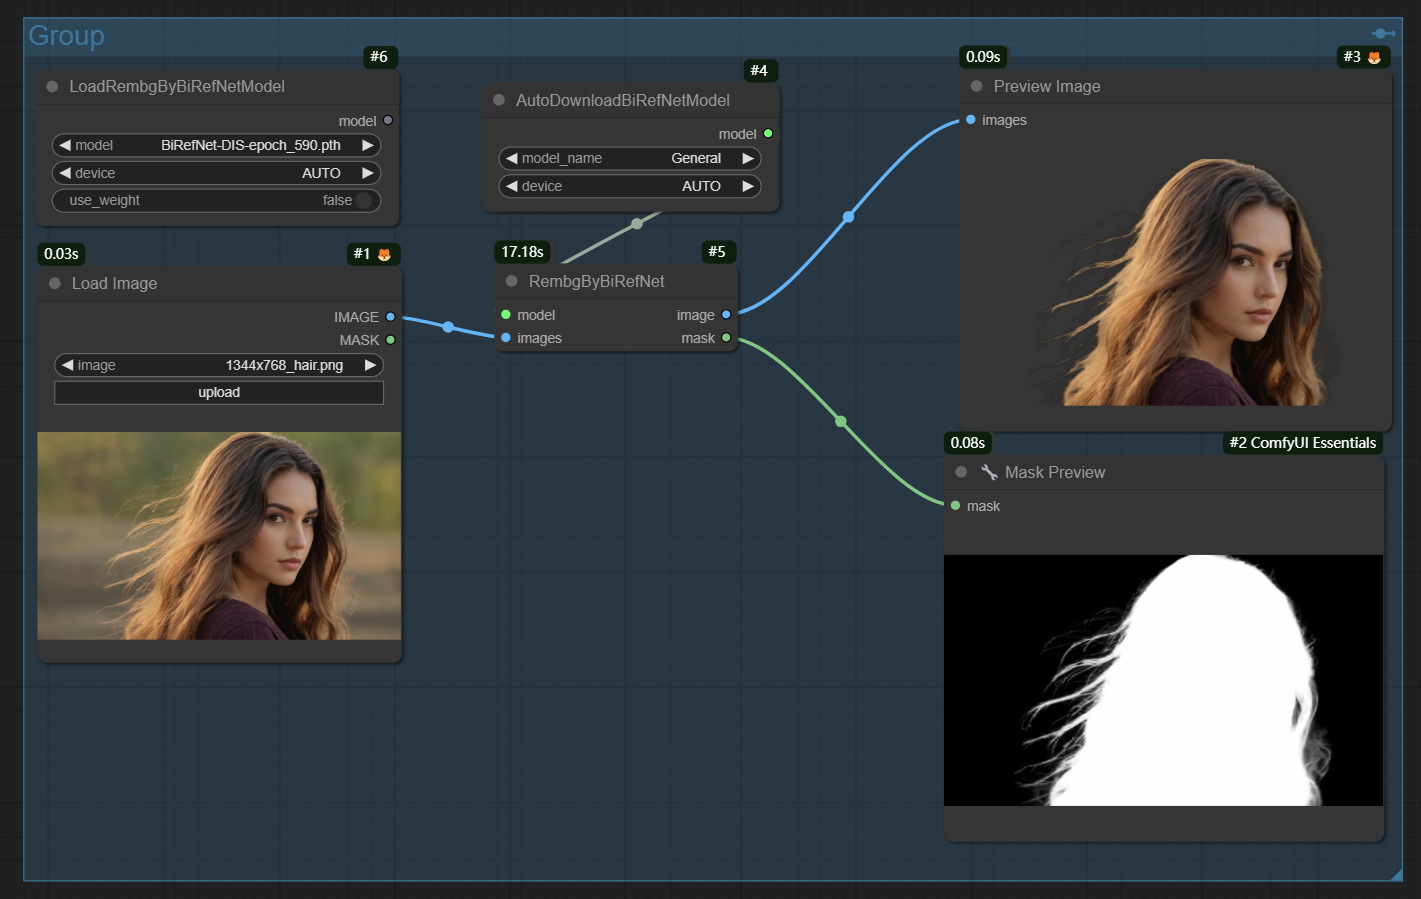
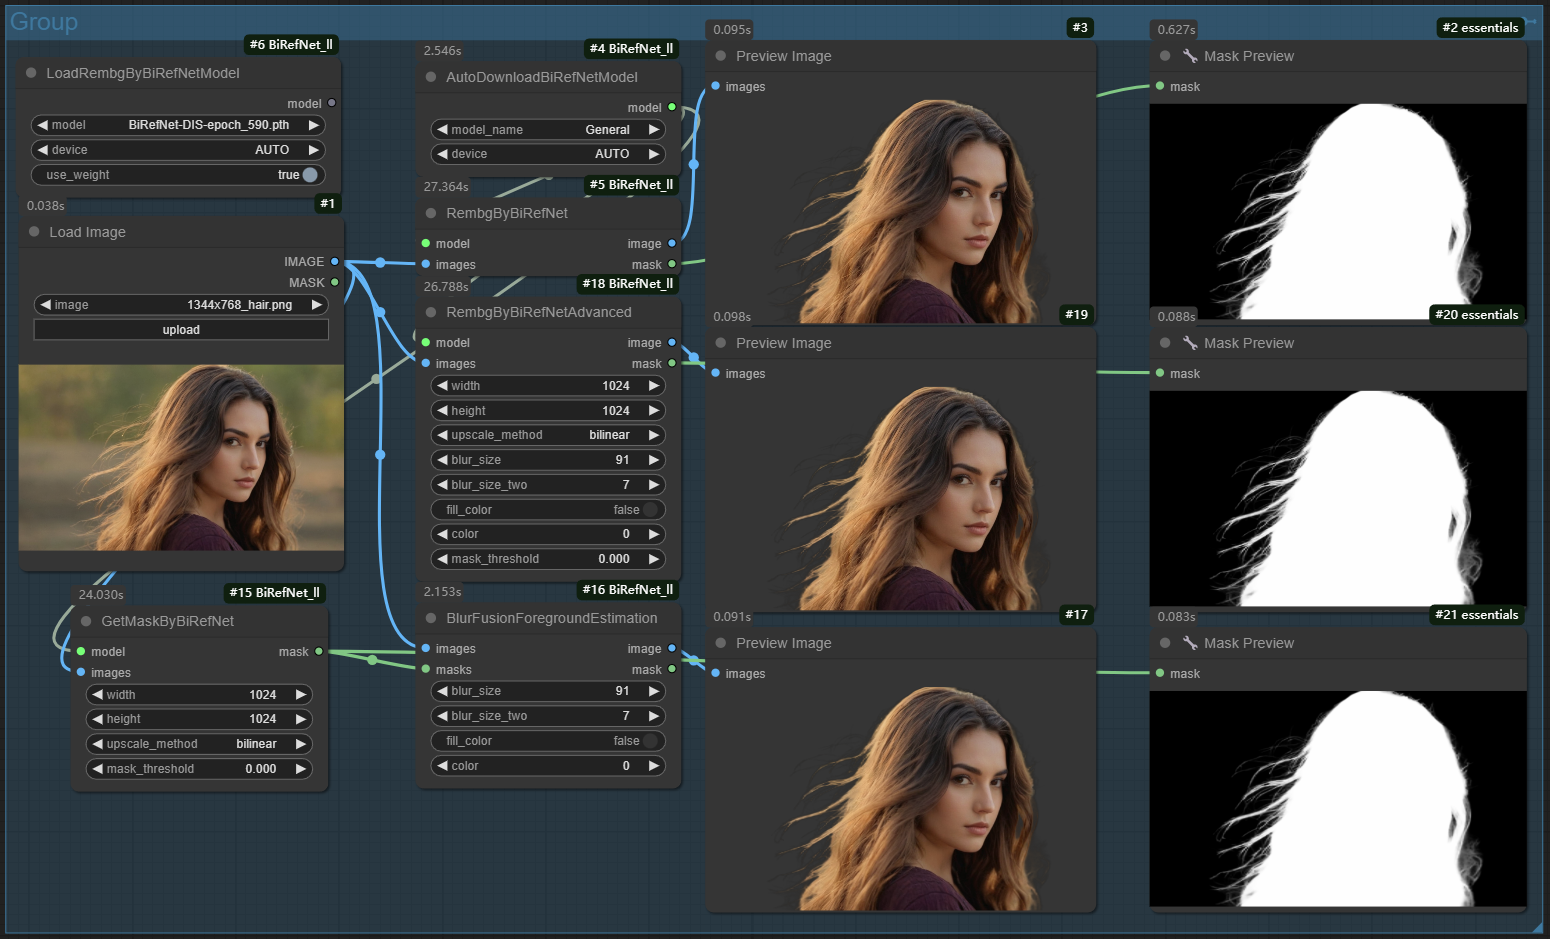
add GetMaskByBiRefNet and BlurFusionForegroundEstimation

diff --git a/birefnetNode.py b/birefnetNode.py
@@ -164,7 +164,135 @@ class LoadRembgByBiRefNetModel:
         return [(biRefNet_model, version)]
 
 
-class RembgByBiRefNetAdvanced:
+class GetMaskByBiRefNet:
+
+    @classmethod
+    def INPUT_TYPES(cls):
+        return {
+            "required": {
+                "model": ("BiRefNetMODEL",),
+                "images": ("IMAGE",),
+                "width": ("INT",
+                          {
+                              "default": 1024,
+                              "min": 0,
+                              "max": 16384,
+                              "tooltip": "The width of the preprocessed image, does not affect the final output image size"
+                          }),
+                "height": ("INT",
+                           {
+                               "default": 1024,
+                               "min": 0,
+                               "max": 16384,
+                               "tooltip": "The height of the preprocessed image, does not affect the final output image size"
+                           }),
+                "upscale_method": (["bislerp", "nearest-exact", "bilinear", "area", "bicubic"],
+                                   {
+                                       "default": "bilinear",
+                                       "tooltip": "Interpolation method for post-processing mask"
+                                   }),
+                "mask_threshold": ("FLOAT", {"default": 0.000, "min": 0.0, "max": 1.0, "step": 0.004, }),
+            }
+        }
+
+    RETURN_TYPES = ("MASK",)
+    RETURN_NAMES = ("mask",)
+    FUNCTION = "get_mask"
+    CATEGORY = "rembg/BiRefNet"
+
+    def get_mask(self, model, images, width=1024, height=1024, upscale_method='bilinear', mask_threshold=0.000):
+        model, version = model
+        model_device_type = next(model.parameters()).device.type
+        b, h, w, c = images.shape
+        image_bchw = images.permute(0, 3, 1, 2)
+
+        image_preproc = ImagePreprocessor(resolution=(height, width))
+        if VERSION[0] == version:
+            im_tensor = image_preproc.old_proc(image_bchw)
+        else:
+            im_tensor = image_preproc.proc(image_bchw)
+
+        _mask_bchw = []
+        for each_image in im_tensor:
+            with torch.no_grad():
+                each_mask = model(each_image.unsqueeze(0).to(model_device_type))[-1].sigmoid().cpu()
+            _mask_bchw.append(each_mask)
+            del each_mask
+
+        mask_bchw = torch.cat(_mask_bchw, dim=0)
+        del _mask_bchw
+        # 遮罩大小需还原为与原图一致
+        mask = comfy.utils.common_upscale(mask_bchw, w, h, upscale_method, "disabled")
+        # (b, 1, h, w)
+        if mask_threshold > 0:
+            mask = filter_mask(mask, threshold=mask_threshold)
+        # else:
+        #   似乎几乎无影响
+        #     mask = normalize_mask(mask)
+
+        return mask.squeeze(1),
+
+
+class BlurFusionForegroundEstimation:
+
+    @classmethod
+    def INPUT_TYPES(cls):
+        return {
+            "required": {
+                "images": ("IMAGE",),
+                "masks": ("MASK",),
+                "blur_size": ("INT", {"default": 91, "min": 1, "max": 255, "step": 2, }),
+                "blur_size_two": ("INT", {"default": 7, "min": 1, "max": 255, "step": 2, }),
+                "fill_color": ("BOOLEAN", {"default": False}),
+                "color": ("INT", {"default": 0, "min": 0, "max": 0xFFFFFF, "step": 1, "display": "color"}),
+            }
+        }
+
+    RETURN_TYPES = ("IMAGE", "MASK",)
+    RETURN_NAMES = ("image", "mask",)
+    FUNCTION = "get_foreground"
+    CATEGORY = "rembg/BiRefNet"
+    DESCRIPTION = "Approximate Fast Foreground Colour Estimation. https://github.com/Photoroom/fast-foreground-estimation"
+
+    def get_foreground(self, images, masks, blur_size=91, blur_size_two=7, fill_color=False, color=None):
+        b, h, w, c = images.shape
+        if b != masks.shape[0]:
+            raise ValueError("images and masks must have the same batch size")
+
+        image_bchw = images.permute(0, 3, 1, 2)
+
+        if masks.dim() == 3:
+            # (b, h, w) => (b, 1, h, w)
+            out_masks = masks.unsqueeze(1)
+
+        # (b, c, h, w)
+        _image_masked = refine_foreground(image_bchw, out_masks, r1=blur_size, r2=blur_size_two)
+        # (b, c, h, w) => (b, h, w, c)
+        _image_masked = _image_masked.permute(0, 2, 3, 1)
+        if fill_color and color is not None:
+            r = torch.full([b, h, w, 1], ((color >> 16) & 0xFF) / 0xFF)
+            g = torch.full([b, h, w, 1], ((color >> 8) & 0xFF) / 0xFF)
+            b = torch.full([b, h, w, 1], (color & 0xFF) / 0xFF)
+            # (b, h, w, 3)
+            background_color = torch.cat((r, g, b), dim=-1)
+            # (b, 1, h, w) => (b, h, w, 3)
+            apply_mask = out_masks.permute(0, 2, 3, 1).expand_as(_image_masked)
+            out_images = _image_masked * apply_mask + background_color * (1 - apply_mask)
+            # (b, h, w, 3)=>(b, h, w, 3)
+            del background_color, apply_mask
+            out_masks = out_masks.squeeze(1)
+        else:
+            # (b, 1, h, w) => (b, h, w)
+            out_masks = out_masks.squeeze(1)
+            # image的非mask对应部分设为透明 => (b, h, w, 4)
+            out_images = add_mask_as_alpha(_image_masked.cpu(), out_masks.cpu())
+
+        del _image_masked
+
+        return out_images, out_masks
+
+
+class RembgByBiRefNetAdvanced(GetMaskByBiRefNet, BlurFusionForegroundEstimation):
 
     @classmethod
     def INPUT_TYPES(cls):
@@ -205,57 +333,10 @@ class RembgByBiRefNetAdvanced:
     CATEGORY = "rembg/BiRefNet"
 
     def rem_bg(self, model, images, upscale_method='bilinear', width=1024, height=1024, blur_size=91, blur_size_two=7, fill_color=False, color=None, mask_threshold=0.000):
-        model, version = model
-        model_device_type = next(model.parameters()).device.type
-        b, h, w, c = images.shape
-        image_bchw = images.permute(0, 3, 1, 2)
 
-        image_preproc = ImagePreprocessor(resolution=(1024, 1024))
-        if VERSION[0] == version:
-            im_tensor = image_preproc.old_proc(image_bchw)
-        else:
-            im_tensor = image_preproc.proc(image_bchw)
+        masks = super().get_mask(model, images, width, height, upscale_method, mask_threshold)
 
-        _mask_bchw = []
-        for each_image in im_tensor:
-            with torch.no_grad():
-                each_mask = model(each_image.unsqueeze(0).to(model_device_type))[-1].sigmoid().cpu()
-            _mask_bchw.append(each_mask)
-            del each_mask
-
-        mask_bchw = torch.cat(_mask_bchw, dim=0)
-        del _mask_bchw
-        # 遮罩大小需还原为与原图一致
-        mask = comfy.utils.common_upscale(mask_bchw, w, h, 'bilinear', "disabled")
-        # (b, 1, h, w)
-        if mask_threshold > 0:
-            out_masks = filter_mask(mask, threshold=mask_threshold)
-        else:
-            out_masks = normalize_mask(mask)
-
-        # (b, c, h, w)
-        _image_masked = refine_foreground(image_bchw, out_masks, r1=blur_size, r2=blur_size_two)
-        # (b, c, h, w) => (b, h, w, c)
-        _image_masked = _image_masked.permute(0, 2, 3, 1)
-        if fill_color and color is not None:
-            r = torch.full([b, h, w, 1], ((color >> 16) & 0xFF) / 0xFF)
-            g = torch.full([b, h, w, 1], ((color >> 8) & 0xFF) / 0xFF)
-            b = torch.full([b, h, w, 1], (color & 0xFF) / 0xFF)
-            # (b, h, w, 3)
-            background_color = torch.cat((r, g, b), dim=-1)
-            # (b, 1, h, w) => (b, h, w, 3)
-            apply_mask = out_masks.permute(0, 2, 3, 1).expand_as(_image_masked)
-            out_images = _image_masked * apply_mask + background_color * (1 - apply_mask)
-            # (b, h, w, 3)=>(b, h, w, 3)
-            del background_color, apply_mask
-            out_masks = out_masks.squeeze(1)
-        else:
-            # (b, 1, h, w) => (b, h, w)
-            out_masks = out_masks.squeeze(1)
-            # image的非mask对应部分设为透明 => (b, h, w, 4)
-            out_images = add_mask_as_alpha(_image_masked.cpu(), out_masks.cpu())
-
-        del _image_masked
+        out_images, out_masks = super().get_foreground(images, masks=masks[0], blur_size=blur_size, blur_size_two=blur_size_two, fill_color=fill_color, color=color)
 
         return out_images, out_masks
 
@@ -285,6 +366,8 @@ NODE_CLASS_MAPPINGS = {
     "LoadRembgByBiRefNetModel": LoadRembgByBiRefNetModel,
     "RembgByBiRefNet": RembgByBiRefNet,
     "RembgByBiRefNetAdvanced": RembgByBiRefNetAdvanced,
+    "GetMaskByBiRefNet": GetMaskByBiRefNet,
+    "BlurFusionForegroundEstimation": BlurFusionForegroundEstimation,
 }
 
 NODE_DISPLAY_NAME_MAPPINGS = {
@@ -292,4 +375,6 @@ NODE_DISPLAY_NAME_MAPPINGS = {
     "LoadRembgByBiRefNetModel": "LoadRembgByBiRefNetModel",
     "RembgByBiRefNet": "RembgByBiRefNet",
     "RembgByBiRefNetAdvanced": "RembgByBiRefNetAdvanced",
+    "GetMaskByBiRefNet": "GetMaskByBiRefNet",
+    "BlurFusionForegroundEstimation": "BlurFusionForegroundEstimation",
 }
